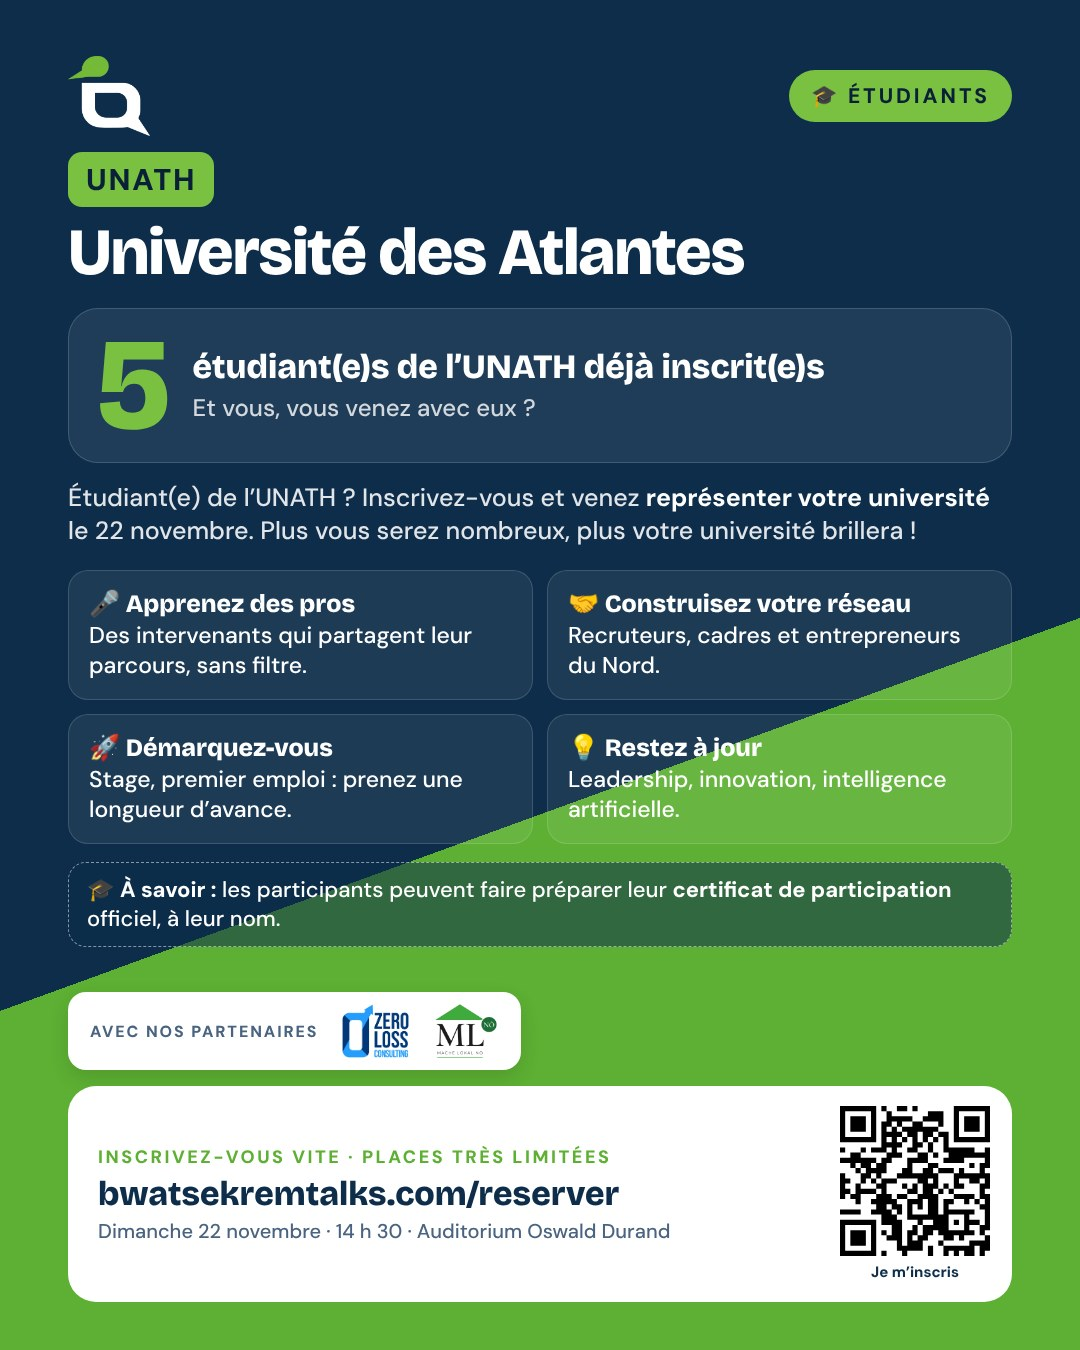
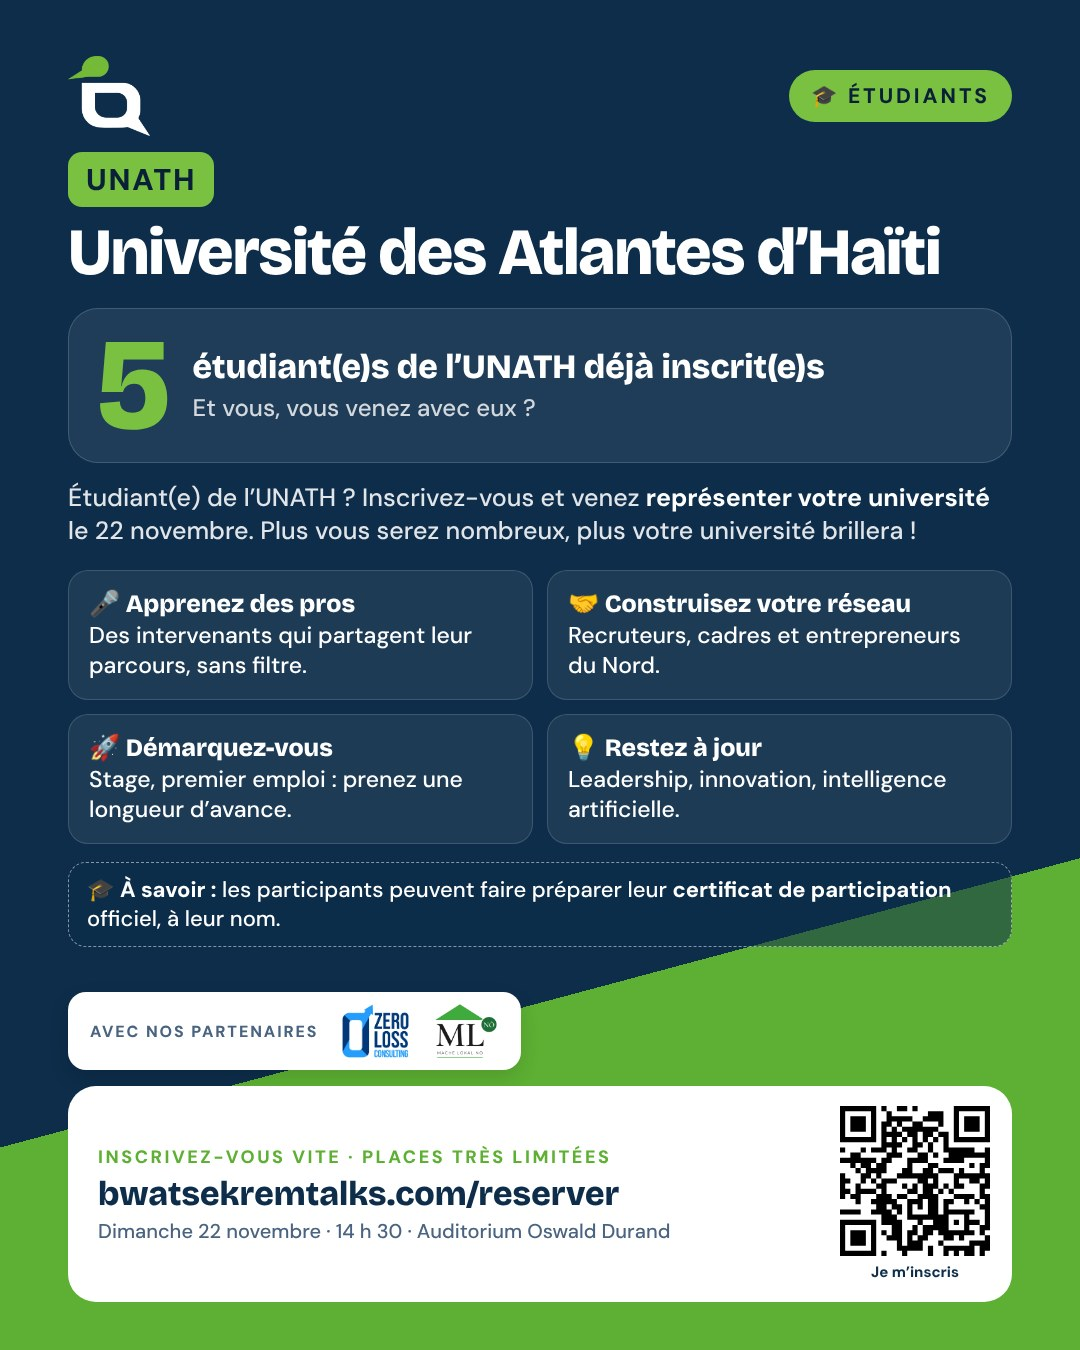
UNATH : Université des Atlantes d'Haïti (admin, CRM, affiche)
Claude-Session: https://claude.ai/code/session_0122zvvAsBzCm2JWrz3LrK24

Changed region(s): [[0.0, 0.4356, 1.0, 0.8711], [0.7028, 0.1556, 0.8861, 0.2178]]

diff --git a/crm/index.html b/crm/index.html
@@ -596,7 +596,7 @@ const plain = (s) => String(s || '').normalize('NFD').replace(/[̀-ͯ]/g, '').to
 const isCap = (v) => /(^|\b)(cap|okap|o kap)(\b|$)|cap\s*-?\s*ha/.test(plain(v).trim());
 function waNumber(tel) { let d = String(tel || '').replace(/\D/g, ''); if (d.startsWith('00')) d = d.slice(2); if (d.length === 8) d = '509' + d; return d.length >= 10 && d.length <= 15 ? d : ''; }
 const UNIS = { UPNCH: 'Université Publique du Nord au Cap-Haïtien', URHC: 'Université Roi Henri Christophe', UNDH: 'Université Notre Dame d’Haïti', UCNH: 'Université Chrétienne du Nord d’Haïti',
-  'CHCL/UEH': 'Campus Henry Christophe de l’UEH', UNAF: 'Université Anténor Firmin', 'FDSEG/UEH': 'Faculté de Droit, des Sciences Économiques et de Gestion du Cap-Haïtien', UNATH: 'Université des Atlantes', EMMAUS: 'Université Emmaüs', UGNH: 'Université du Grand Nord d’Haïti',
+  'CHCL/UEH': 'Campus Henry Christophe de l’UEH', UNAF: 'Université Anténor Firmin', 'FDSEG/UEH': 'Faculté de Droit, des Sciences Économiques et de Gestion du Cap-Haïtien', UNATH: 'Université des Atlantes d’Haïti', EMMAUS: 'Université Emmaüs', UGNH: 'Université du Grand Nord d’Haïti',
   HUJ: 'Hôpital Universitaire Justinien', UPH: 'Université Polyvalente d’Haïti', USPF: 'Université Saint-Pierre de Formation', USFAH: 'Université Saint-François d’Assise d’Haïti', IHECE: 'Institut des Hautes Études Commerciales et Économiques', ACFIS: 'Université ACFIS du Canada', ISCEPC: 'Institut Sacré-Cœur des Études Professionnelles et Commerciales', FERA: 'Faculté d’Éducation Regina Assumpta', ISSBAN: 'Institut Supérieur des Sciences et de Beaux-Arts du Nord', UNEXHN: 'Université Excellence d’Haïti Nord' };
 const UNI_ALIAS = [[/JUSTINIEN|\bHUJ\b/, 'HUJ'], [/POLYVALENTE|\bUPH\b/, 'UPH'], [/S(AIN)?T\.?[- ]?PIERRE DE FORMATION|\bUSPF\b/, 'USPF'], [/FRANCOIS D'? ?ASSISE|\bUSFAH\b/, 'USFAH'], [/\bIHECE\b|HAUTES ETUDES COMMERCIALES ET ECONOMIQUES/, 'IHECE'], [/ACFIS/, 'ACFIS'], [/SACRE[- ]?C(OE|Œ|O)?UR|\bISCEPC\b/, 'ISCEPC'], [/REGINA ASSUMPTA|\bFERA\b/, 'FERA'], [/ISSBAN|BEAUX[- ]?ARTS DU NORD/, 'ISSBAN'], [/UNIVERSITE DES ATLANTES/, 'UNATH'], [/EXCELLENCE D'? ?HAITI|\bUNEXHN\b/, 'UNEXHN']];
 const uniAlias = (u) => { const p = String(u).normalize('NFD').replace(/[̀-ͯ]/g, '').replace(/[’]/g, "'").toUpperCase(); for (const [re, k] of UNI_ALIAS) if (re.test(p)) return k; return null; };

diff --git a/index.html b/index.html
@@ -1045,7 +1045,7 @@ const UNIVERSITES = {
   'CHCL/UEH': 'Campus Henry Christophe de l’UEH',
   'UNAF': 'Université Anténor Firmin',
   'FDSEG/UEH': 'Faculté de Droit, des Sciences Économiques et de Gestion du Cap-Haïtien',
-  'UNATH': 'Université des Atlantes',
+  'UNATH': 'Université des Atlantes d’Haïti',
   'EMMAÜS': 'Université Emmaüs',
   'UGNH': 'Université du Grand Nord d’Haïti',
   'HUJ': 'Hôpital Universitaire Justinien',
